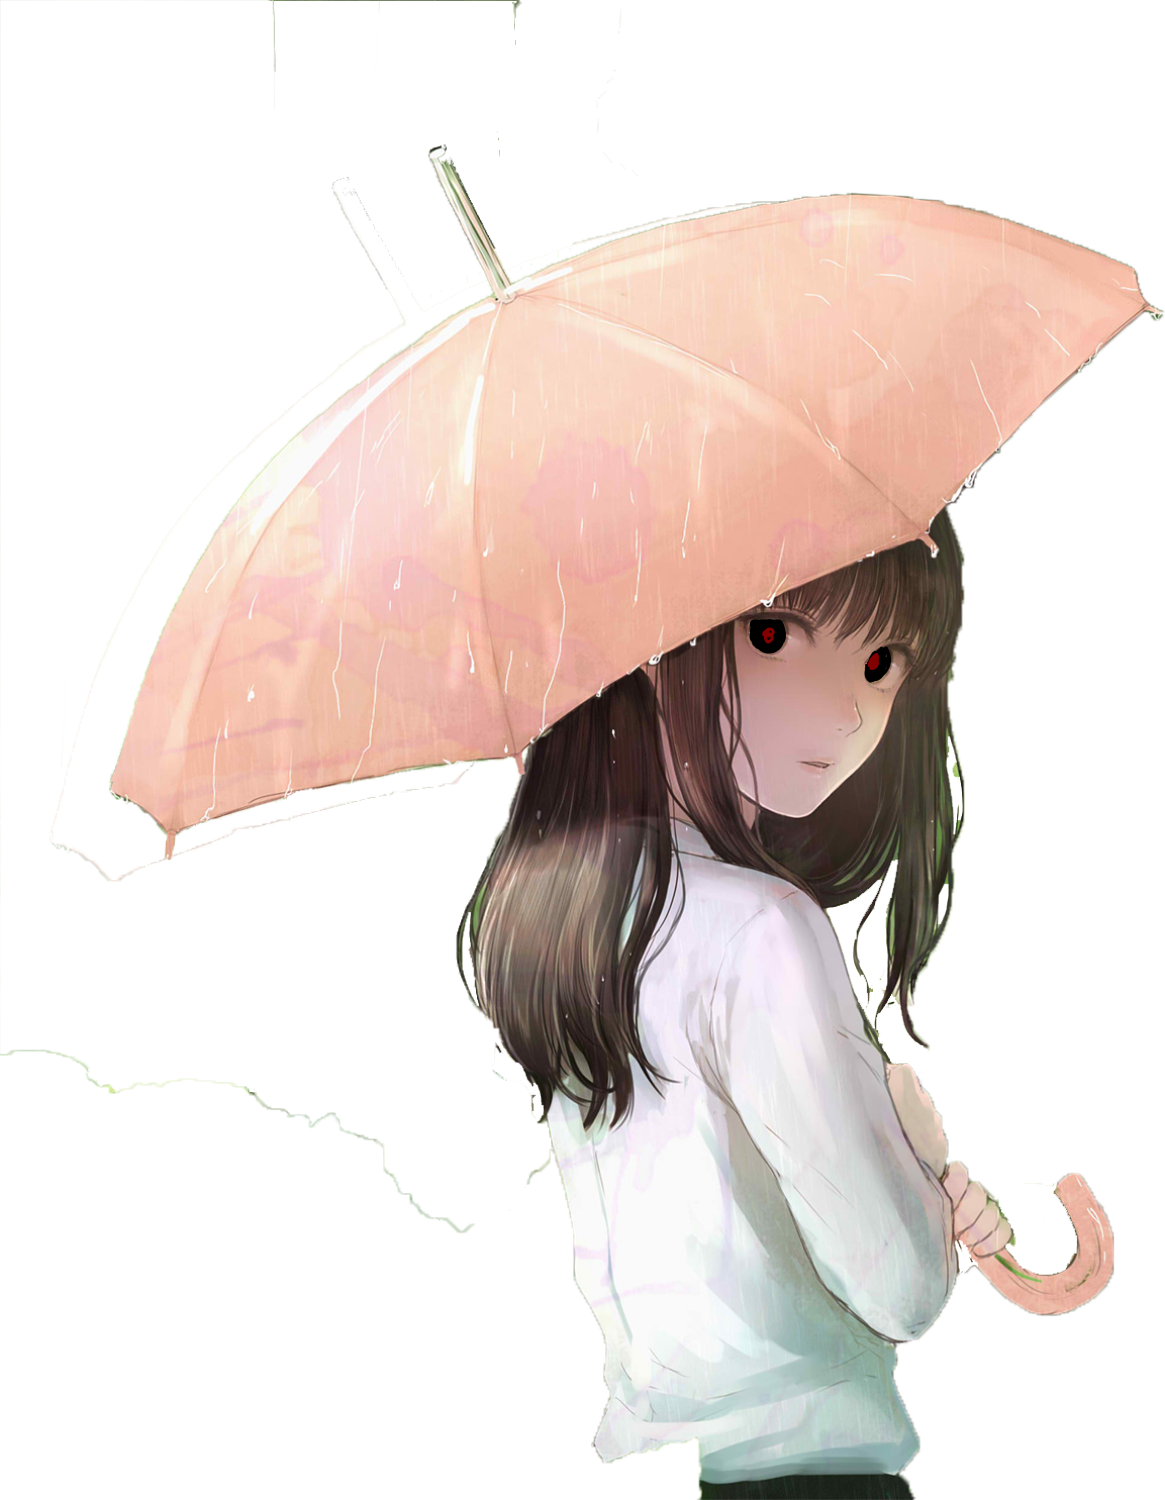
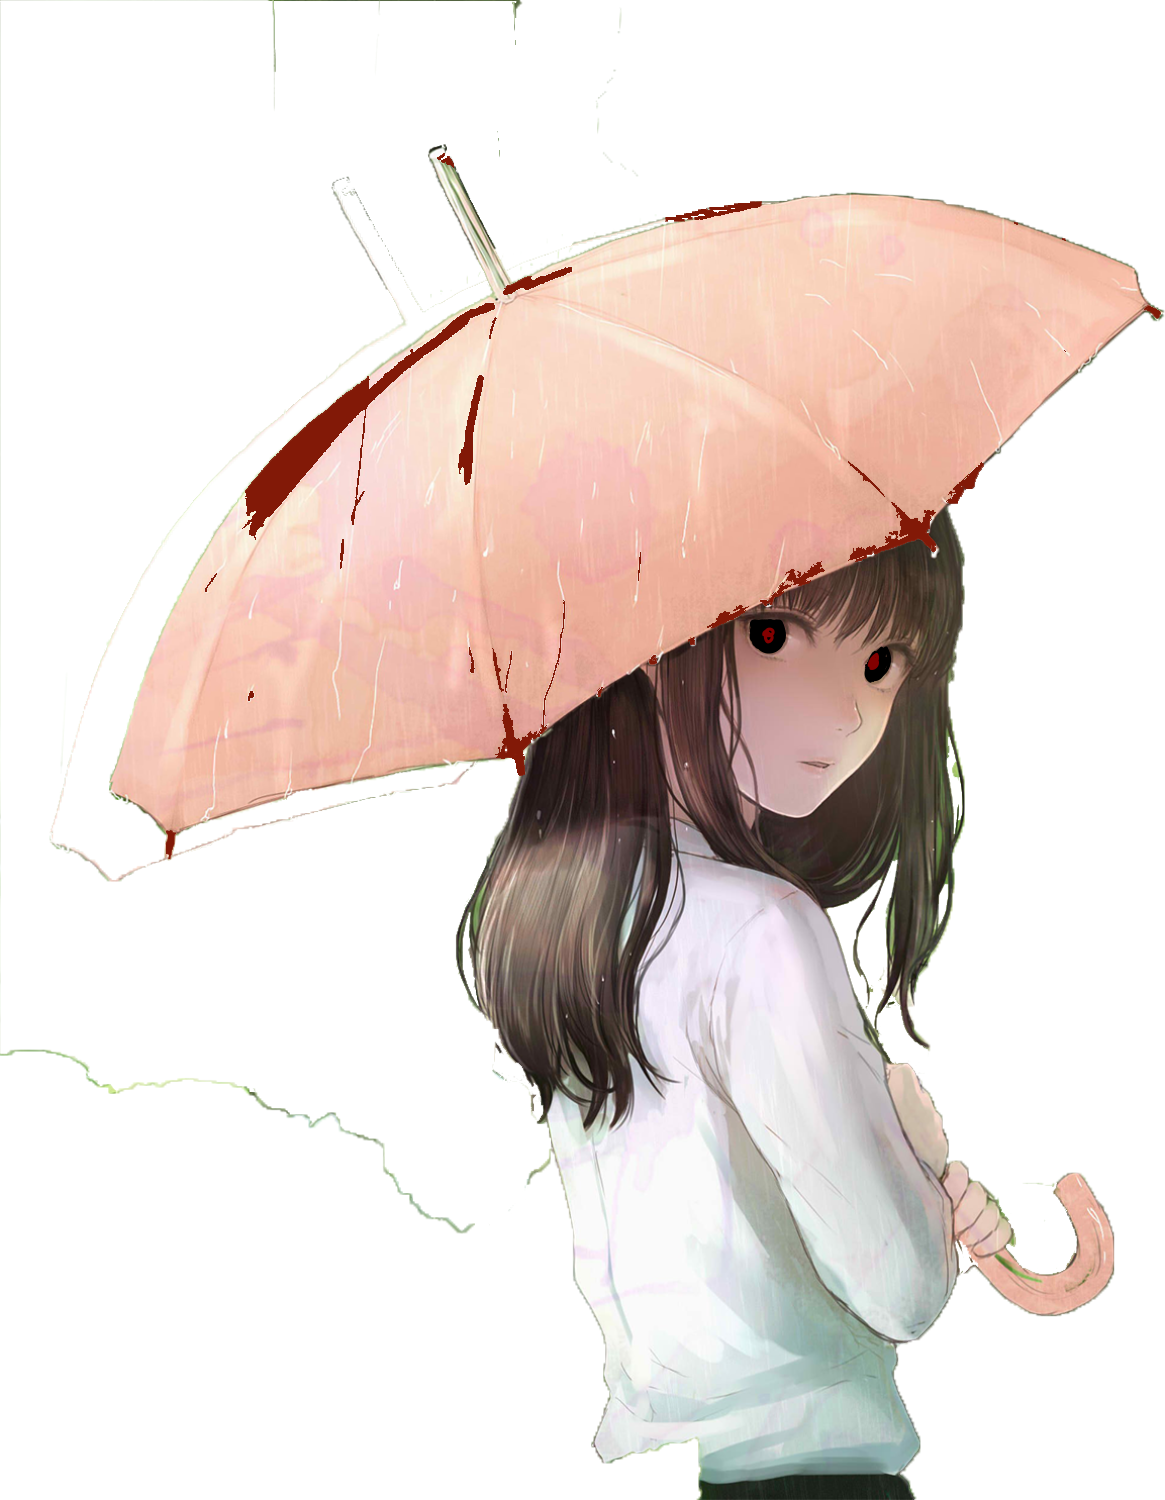
Add files via upload

diff --git a/Final_Project/sketch.js b/Final_Project/sketch.js
@@ -1,3 +1,7 @@
+//Help from TA Che-Yu
+//Image referenced from https://editor.p5js.org/sl/sketches/SJ6QtM3SX
+//Rain function taken from https://p5js.org/examples/simulate-snowflakes.html
+
 var canvas;
 var sound1;
 var sound2;
@@ -15,7 +19,6 @@ function preload(){
   
 }
 
-
 function setup() {
 
   sound1.play()
@@ -32,8 +35,8 @@ function draw() {
   background(100);
   imageMode(CENTER);
 
-  let f = frameCount/60;
-  for (var i=0; i<random(5); i++) {
+  let f = frameCount/120; //creating the animation 
+  for (var i=0; i<random(5); i++) { //quantity of the drizzles
     raindrops.push(new rain());
   }
   for (let drops of raindrops) {
@@ -41,13 +44,14 @@ function draw() {
     drops.display(); 
   }
 
-  if (bf==false){
-	fill(255)
+  if (bf == false){ //stating condition for before and after
+	fill(255);
   	image(beforeImage,450,475,800,850);
   }
-  if (bf==true){
-  	fill(255)
+  if (bf == true){
+  	fill(220,20,60);
   	image(afterImage,450,475,800,1050);
+
   }
 }
 
@@ -56,19 +60,20 @@ function rain(){
   this.posX = 0;
   this.posY = random(-100,0);
   this.initialangle = random(0,5);
-  this.size = random(2,5);
+  this.size = random(2,6);
+  this.size2 = random(4,7);
 
   this.radius = sqrt(random(pow(width/2,2)));
 
   this.update = function(time) {
-    let w = 0.03; 
+    let w = 0.03; //deviation of the snow
     let angle = w*time + this.initialangle;
     this.posX = width/2 + this.radius*sin(angle);
     this.posY += pow(this.size, 0.5);
   }
 
   this.display = function() {
-    ellipse(this.posX, this.posY, this.size);
+    ellipse(this.posX, this.posY, this.size, this.size2);
   }
 
 };
@@ -78,5 +83,5 @@ function mousePressed(){
 	fill(255);
 	bf = true
 	sound2.play();
-
 }
+
